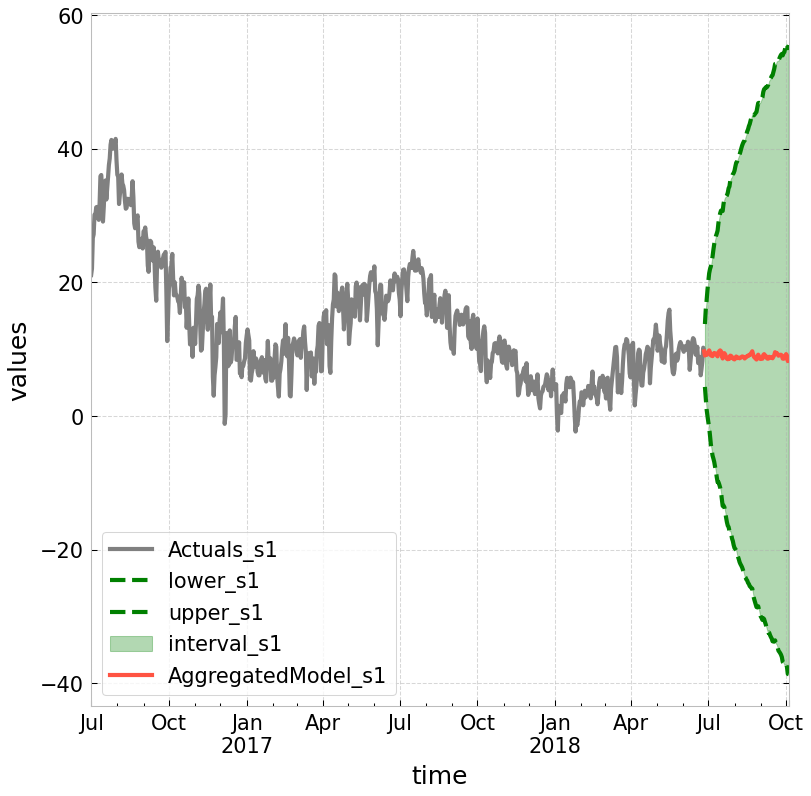
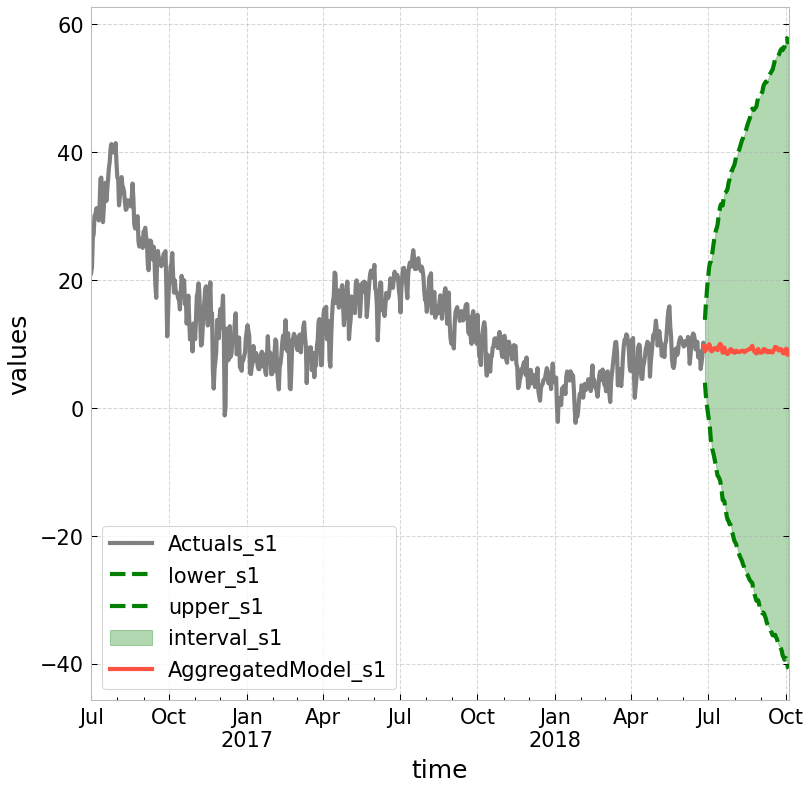
udapeting

diff --git a/src/pasts/prediction_intervals.py b/src/pasts/prediction_intervals.py
@@ -1,0 +1,116 @@
+# Copyright 2023 Eurobios
+# Licensed under the Apache License, Version 2.0 (the "License");
+# you may not use this file except in compliance with the License.
+# You may obtain a copy of the License at
+#     http://www.apache.org/licenses/LICENSE-2.0
+# Unless required by applicable law or agreed to in writing, software
+# distributed under the License is distributed on an "AS IS" BASIS,
+# WITHOUT WARRANTIES OR CONDITIONS OF ANY KIND, either express or implied.
+# See the License for the specific language governing permissions and limitations under the License.
+
+"""Empirical prediction intervals for time-series forecasts.
+
+References
+----------
+Chatfield, C. (1993). Calculating interval forecasts. *Journal of Business &
+    Economic Statistics*, 11(2), 121–135.
+
+Hyndman, R. J., & Athanasopoulos, G. (2021). *Forecasting: Principles and
+    Practice* (3rd ed.), OTexts. https://otexts.com/fpp3/prediction-intervals.html
+"""
+
+import warnings
+
+import numpy as np
+import pandas as pd
+
+
+_SCALINGS = ("constant", "sqrt_h")
+
+
+def empirical_pi(
+    pred: pd.DataFrame,
+    residuals,
+    scaling: str = "constant",
+    z: float = 1.96,
+) -> pd.DataFrame:
+    """Compute empirical prediction intervals column-wise.
+
+    Parameters
+    ----------
+    pred : pd.DataFrame
+        Point forecasts or test predictions.
+        Shape: (n_steps, n_series). Index is preserved in the output.
+    residuals : array-like or pd.DataFrame
+        Observed forecast errors used to estimate the base standard deviation.
+        If a DataFrame, columns must match *pred*. If a 1-D array or Series,
+        the same residuals are used for every column of *pred*.
+    scaling : {"constant", "sqrt_h"}
+        Growth assumption for the interval width:
+
+        ``"constant"``
+            ``CI(h) = pred(h) ± z × σ``
+
+            Statistically appropriate when no strong horizon-growth assumption
+            can be made (e.g., single train/test split). Recommended default.
+
+        ``"sqrt_h"``
+            ``CI(h) = pred(h) ± z × σ × √h``
+
+            Assumes errors compound like a random walk (variance ∝ h).
+            Valid for naïve / random-walk models; tends to over-widen for
+            other model classes.
+
+    z : float, optional
+        Gaussian quantile multiplier. Default 1.96 (≈ 95 % coverage).
+
+    Returns
+    -------
+    pd.DataFrame
+        Same shape and index as *pred*. Each cell is a tuple ``(lower, upper)``.
+
+    Notes
+    -----
+    The formula ``std(errors / √h) × √h`` is algebraically identical to
+    ``std(errors)``; normalising by the horizon before computing the std does
+    not improve the estimator.  To get a proper one-step-ahead σ₁ estimate,
+    one-step-ahead historical forecasts (in-sample) should be used instead of
+    multi-step test errors.
+    """
+    if scaling not in _SCALINGS:
+        raise ValueError(
+            f"scaling must be one of {_SCALINGS!r}, got {scaling!r}."
+        )
+    if scaling == "sqrt_h":
+        warnings.warn(
+            "scaling='sqrt_h' assumes a random-walk error structure "
+            "(variance ∝ horizon). This may over-widen intervals for "
+            "non-naïve models (ETS, ARIMA, …). "
+            "See Chatfield (1993) and Hyndman & Athanasopoulos (2021).",
+            UserWarning,
+            stacklevel=2,
+        )
+
+    n_steps = len(pred)
+    horizons = np.arange(1, n_steps + 1, dtype=float)
+
+    df_ci = pd.DataFrame(index=pred.index, columns=pred.columns)
+
+    for col in pred.columns:
+        # Extract residuals for this column
+        if isinstance(residuals, pd.DataFrame):
+            res = np.asarray(residuals[col], dtype=float)
+        else:
+            res = np.asarray(residuals, dtype=float)
+
+        sigma = np.std(res)
+
+        vals = pred[col].values.astype(float)
+        if scaling == "constant":
+            half_width = z * sigma * np.ones(n_steps)
+        else:  # "sqrt_h"
+            half_width = z * sigma * np.sqrt(horizons)
+
+        df_ci[col] = list(zip(vals - half_width, vals + half_width))
+
+    return df_ci

diff --git a/src/pasts/signal.py b/src/pasts/signal.py
@@ -13,7 +13,6 @@ import os
 import warnings
 from typing import Union
 
-import numpy as np
 import pandas as pd
 
 from pasts.core.base_model import TimeSeriesModel
@@ -26,16 +25,7 @@ from pasts.validation import ValidationAccessor
 from pasts.metrics import Metrics
 from pasts import persistence
 from pasts.visualization import PlotAccessor
-
-def _build_ci(pred: pd.DataFrame, std_values: dict) -> pd.DataFrame:
-    """Build a confidence-interval DataFrame from a predictions DataFrame and per-column std values."""
-    df_itv = pd.DataFrame(index=pred.index, columns=pred.columns)
-    for ref in pred.columns:
-        vals = pred[ref].values
-        itv_inf = vals - 1.96 * std_values[ref]
-        itv_sup = vals + 1.96 * std_values[ref]
-        df_itv[ref] = list(zip(itv_inf, itv_sup))
-    return df_itv
+from pasts.prediction_intervals import empirical_pi
 
 
 class Signal(DataCube):
@@ -458,38 +448,46 @@ class Signal(DataCube):
                 persistence.save_model(self.path, name, result, suffix="final")
                 persistence.save_common_data(self.path, self.train_data, self.test_data)
 
-    def _conf_interval_test(self, model_name: str):
+    def _conf_interval_test(self, model_name: str, scaling: str = "constant"):
         if model_name not in self.models:
             raise AttributeError(f'{model_name} has not been fitted.')
         result = self.models[model_name]
         pred = result.predictions
         df_residuals = pd.DataFrame(index=pred.index, columns=pred.columns)
-        std_values = {}
         for ref in pred.columns:
-            errors = self.test_data[ref].values - pred[ref].values
-            df_residuals[ref] = errors
-            std_values[ref] = np.std(errors)
+            df_residuals[ref] = self.test_data[ref].values - pred[ref].values
         result.test_residuals = df_residuals
-        result.test_confidence_interval = _build_ci(pred, std_values)
+        result.test_confidence_interval = empirical_pi(pred, df_residuals, scaling=scaling)
 
-    def _conf_interval_forecast(self, model_name: str):
+    def _conf_interval_forecast(self, model_name: str, scaling: str = "sqrt_h"):
         if model_name not in self.models:
             raise AttributeError(f'{model_name} has not been fitted.')
         result = self.models[model_name]
         if result.forecast is None:
             raise AttributeError(f'No forecasts have been computed with model {model_name}.')
-        pred = result.forecast
-        std_values = {ref: np.std(result.test_residuals[ref])
-                      for ref in pred.columns}
-        result.forecast_confidence_interval = _build_ci(pred, std_values)
+        result.forecast_confidence_interval = empirical_pi(
+            result.forecast, result.test_residuals, scaling=scaling)
 
-    def compute_conf_intervals(self, save=False):
+    def compute_conf_intervals(self, scaling_test: str = "constant",
+                               scaling_forecast: str = "sqrt_h", save=False):
+        """Compute confidence intervals for all fitted models.
+
+        Parameters
+        ----------
+        scaling_test : {"constant", "sqrt_h"}, optional
+            Width scaling for test-period intervals (default ``"constant"``).
+        scaling_forecast : {"constant", "sqrt_h"}, optional
+            Width scaling for forecast intervals (default ``"sqrt_h"`` —
+            random-walk assumption; see :mod:`pasts.prediction_intervals`).
+        save : bool, optional
+            Persist results to disk (default ``False``).
+        """
         if not self.models:
             raise AttributeError('No predictions have been found.')
         for model_ in self.models.keys():
-            self._conf_interval_test(model_)
+            self._conf_interval_test(model_, scaling=scaling_test)
             if self.models[model_].forecast is not None:
-                self._conf_interval_forecast(model_)
+                self._conf_interval_forecast(model_, scaling=scaling_forecast)
             if save:
                 persistence.save_model(self.path, model_, self.models[model_])
                 if self.models[model_].forecast is not None:

diff --git a/examples/readme/model.py b/examples/readme/model.py
@@ -47,7 +47,6 @@ signal.validation_split(timestamp=timestamp)
 #--- Named decomposition: remove trend, train models on residual ---
 signal.decompose("MA_Trend")
 signal.decompositions["MA_Trend"] -= MovingAverageTrend(30).fit(signal.data)
-signal.decompositions["MA_Trend"].validation_split(timestamp)
 
 fig = signal.plot()
 fig.savefig(os.path.join(IMG_DIR, 'op.png'), dpi=150, bbox_inches='tight')
@@ -62,7 +61,7 @@ signal.decompositions["MA_Trend"].apply_model(RandomForestModel(lags=250), save_
 #--- Forecast: composes predictions + forecast back to original space ---
 # signal.models["MA_Trend__XGBModel"] is now populated with composed predictions
 signal.forecast("MA_Trend__XGBModel", 100, save_model=True)
-signal.forecast("MA_Trend", "RandomForestModel", 100, save_model=True)
+signal.forecast("MA_Trend__RandomForestModel", 100, save_model=True)
 
 #--- Compute scores (on composed predictions vs original signal) ---
 signal.compute_scores()
